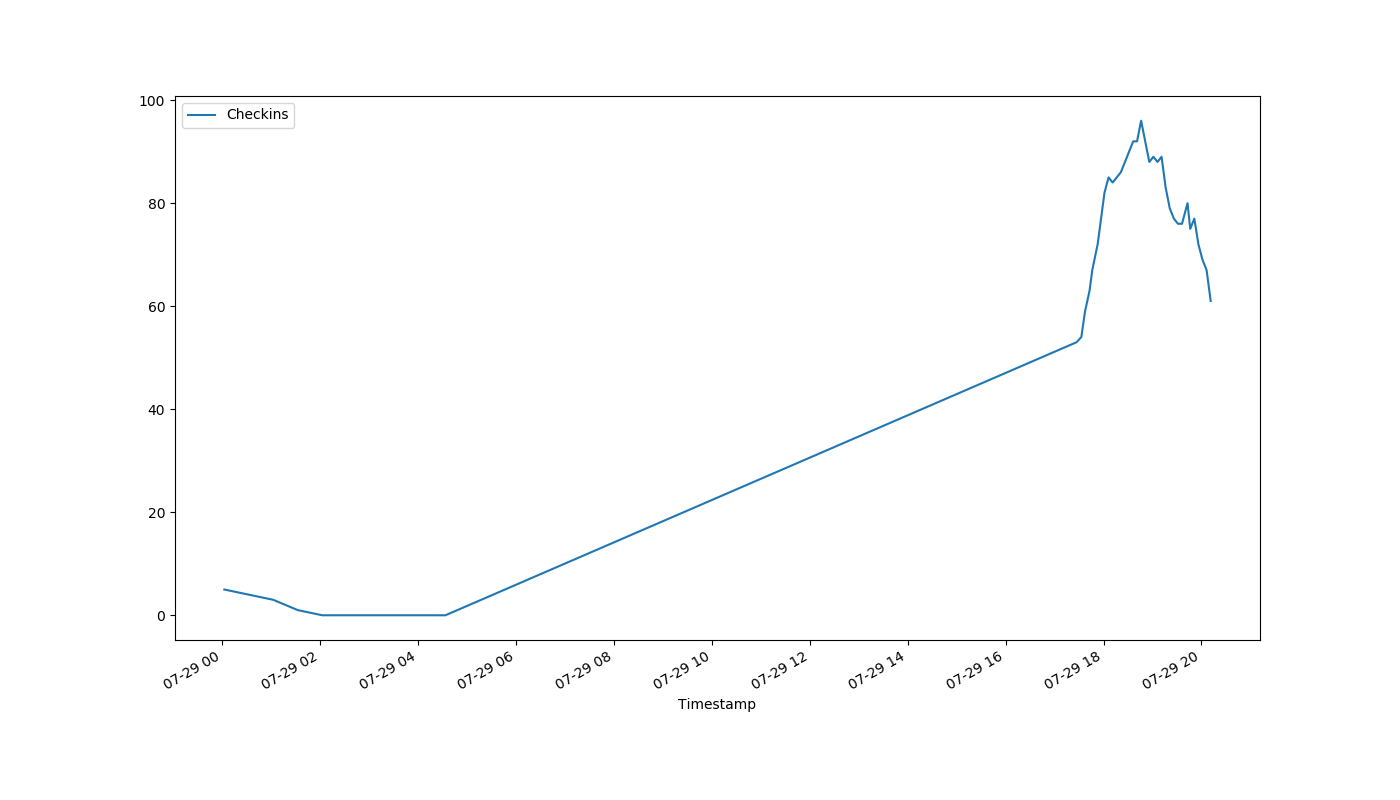
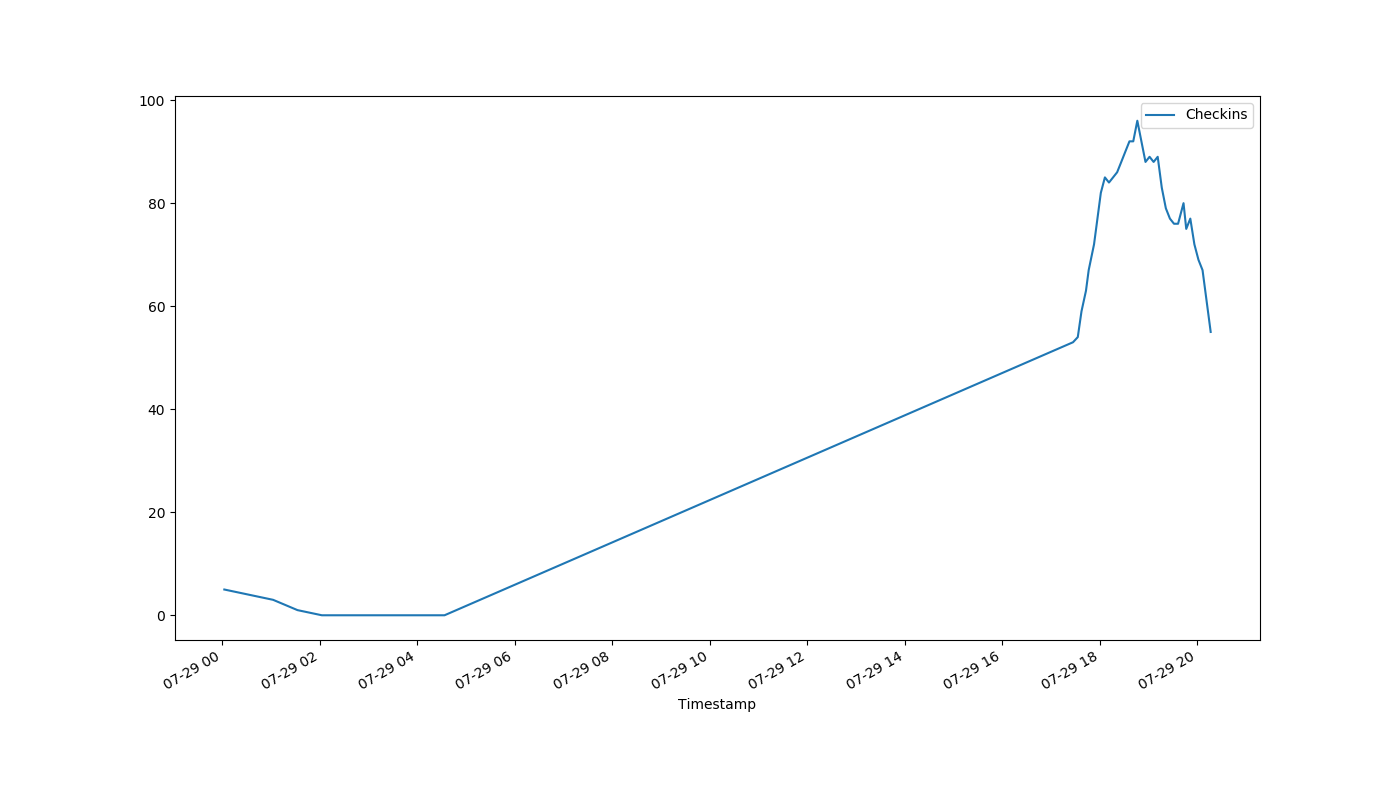
auto-Jul-29-20:17:13

diff --git a/index.html b/index.html
@@ -1,1 +1,1 @@
-<!DOCTYPE html><html><head><meta http-equiv="refresh" content="30"><link rel='stylesheet' href='holmcurrent.css'></head><body><p id='count'>61</p><div id='graph-wrap'><img id='graph' src='holmgraph-Jul-29.png'></div><p id='updated'>Last updated 20:12:05 / 20:11:15</p></body></html>
+<!DOCTYPE html><html><head><meta http-equiv="refresh" content="30"><link rel='stylesheet' href='holmcurrent.css'></head><body><p id='count'>55</p><div id='graph-wrap'><img id='graph' src='holmgraph-Jul-29.png'></div><p id='updated'>Last updated 20:17:05 / 20:16:15</p></body></html>
